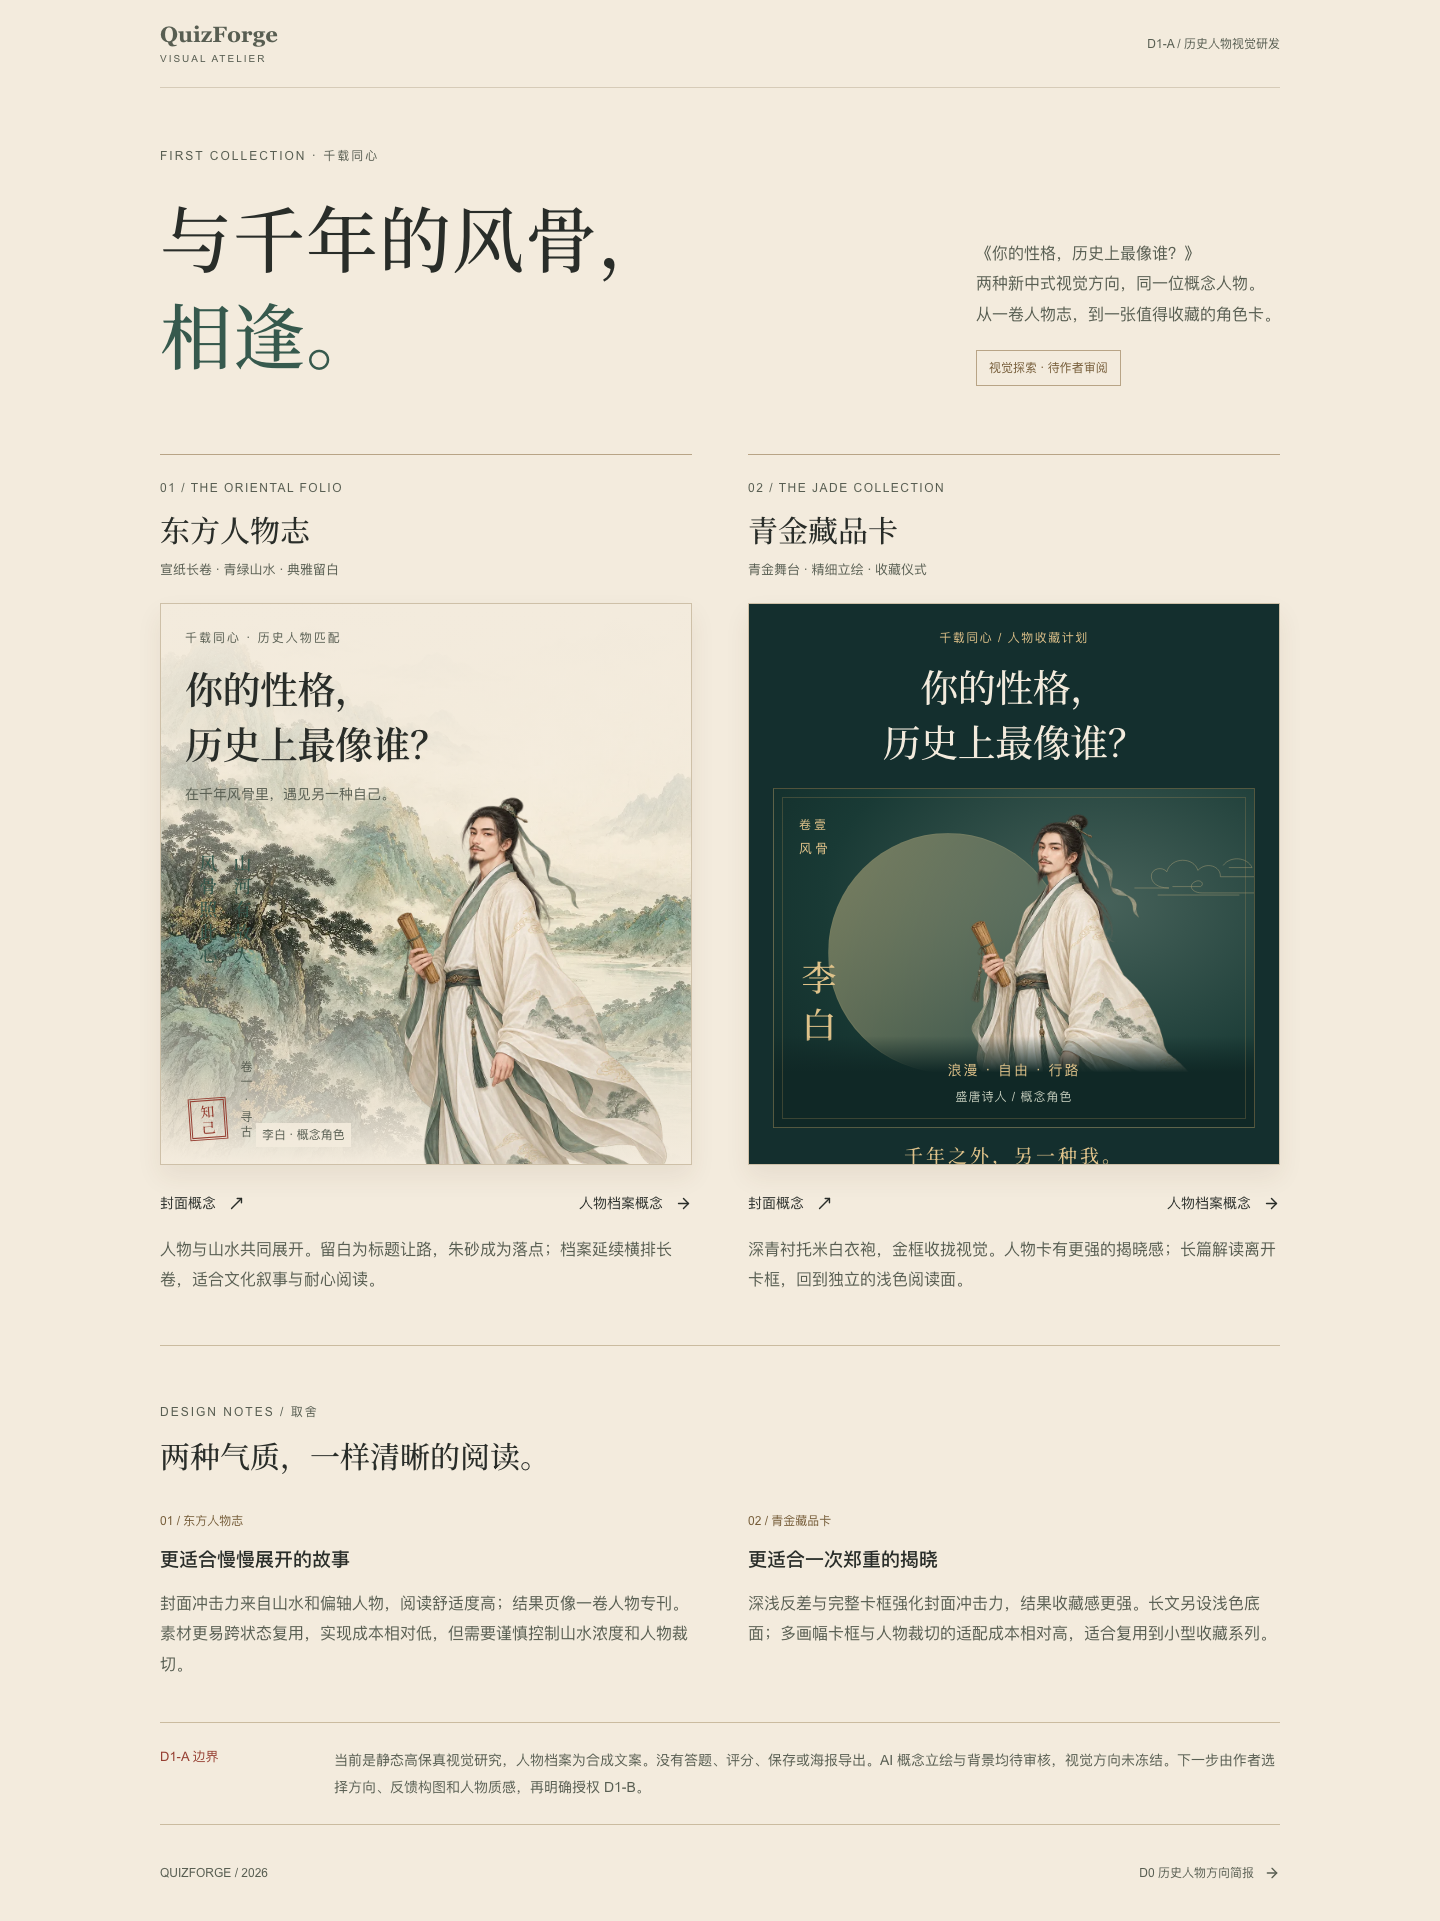
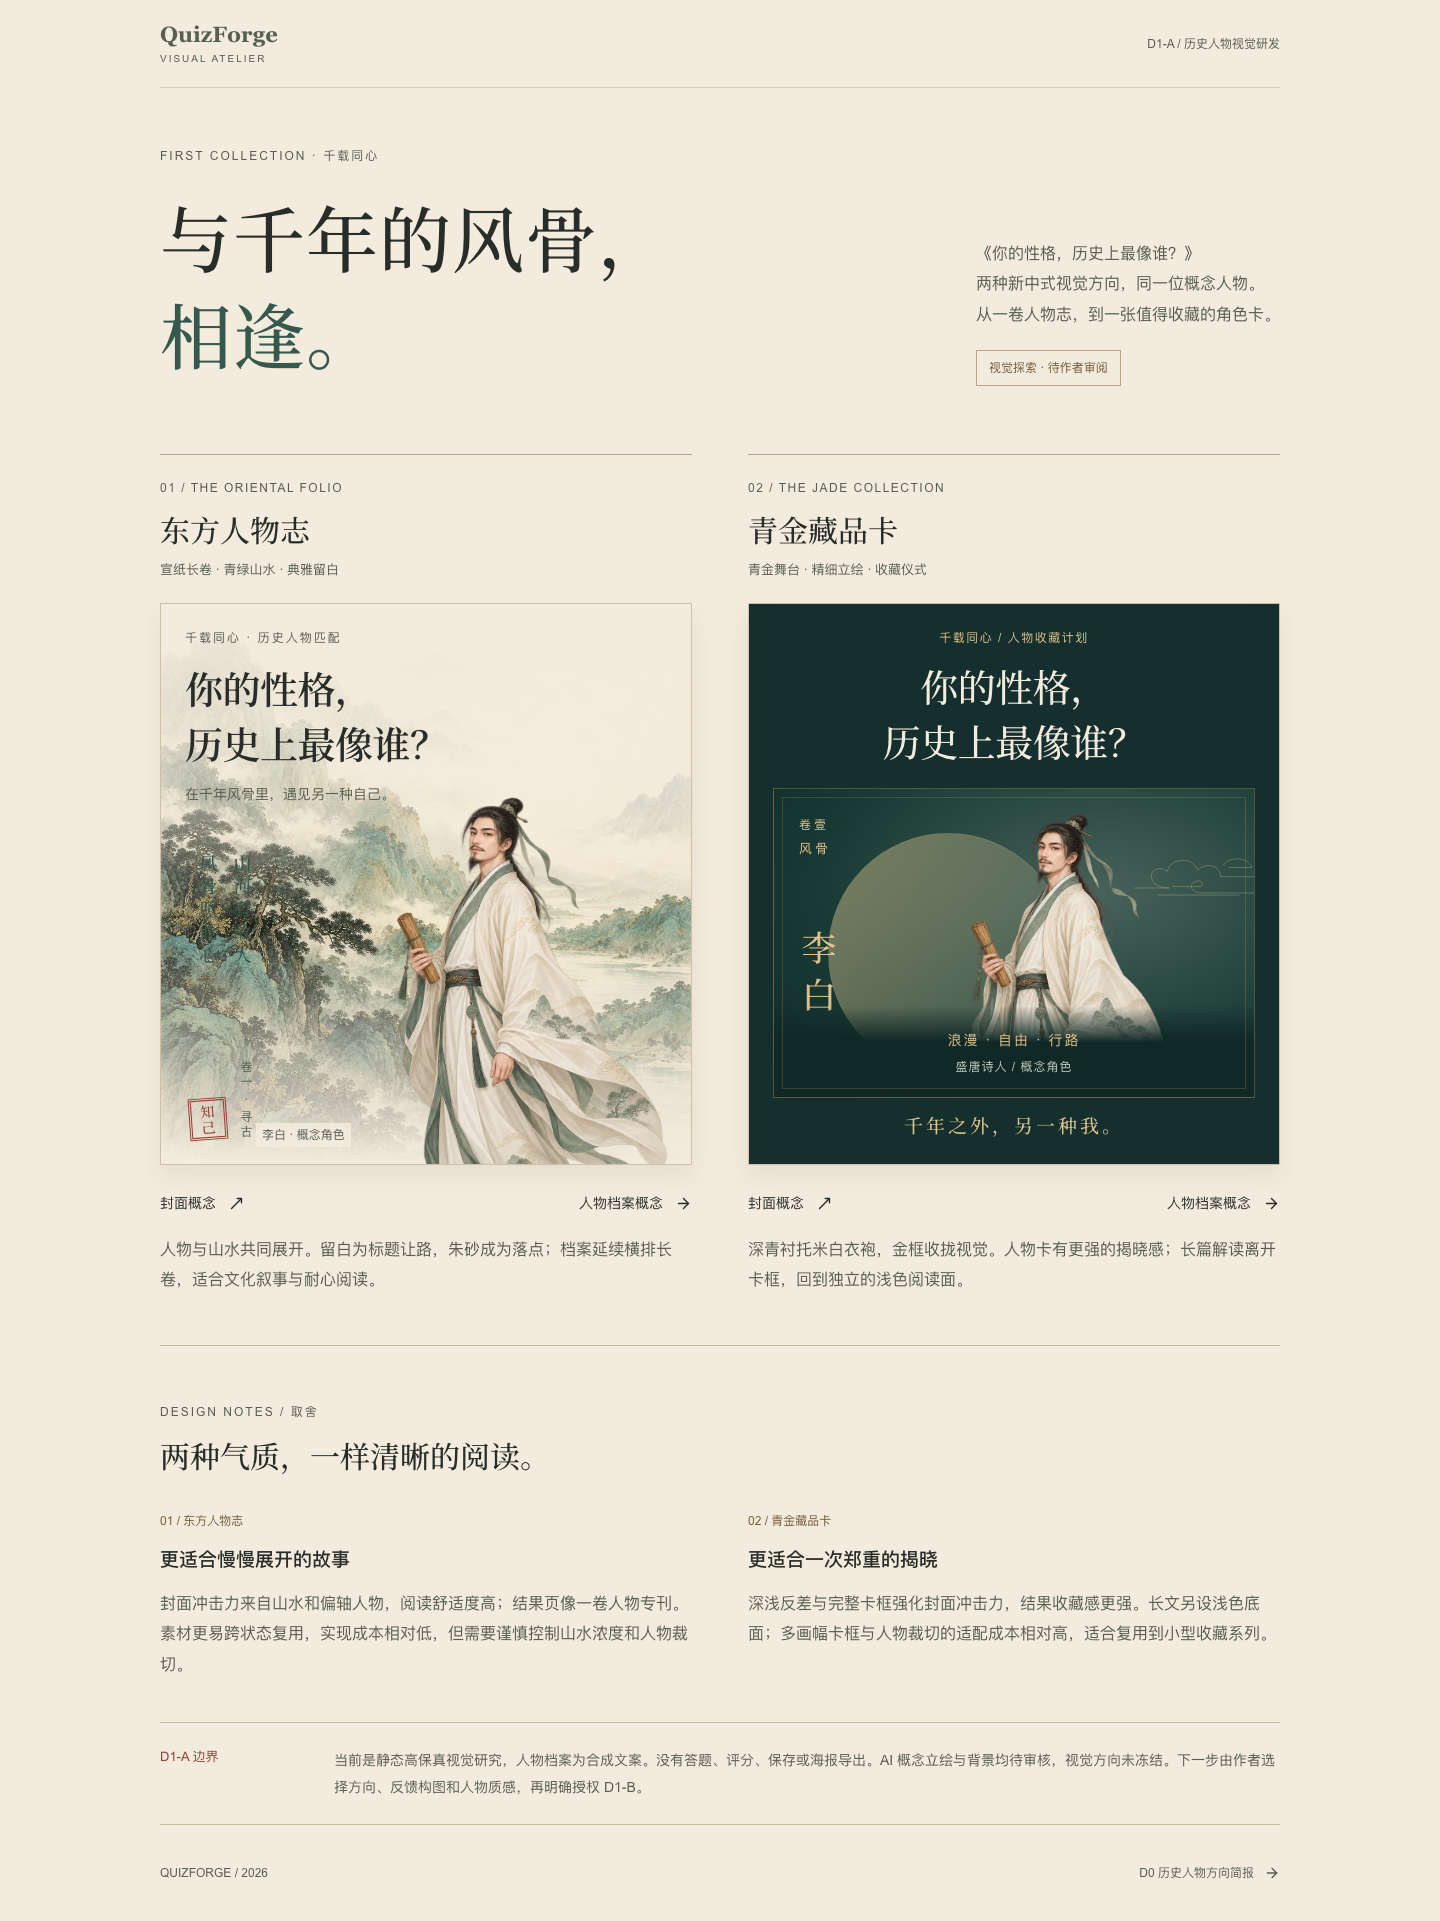
fix: preserve the collection caption in direction previews

Changed region(s): [[0.5938, 0.4997, 0.8125, 0.5934], [0.5625, 0.4685, 0.5938, 0.531]]

diff --git a/src/features/theme/historical/historical.module.css b/src/features/theme/historical/historical.module.css
@@ -869,7 +869,7 @@
     right: 8px;
   }
   .compact .collectionStage {
-    height: 340px;
+    height: 310px;
   }
   .compact .collectionStage .character {
     right: 18px;
@@ -941,7 +941,7 @@
     margin-inline: 16px;
   }
   .compact .collectionStage {
-    height: 340px;
+    height: 310px;
   }
   .compact .collectionStage .character {
     width: 270px;
@@ -997,7 +997,7 @@
     top: 195px;
   }
   .compact .collectionStage {
-    height: 340px;
+    height: 310px;
   }
   .compact .collectionStage .character {
     width: 250px;

diff --git a/docs/D1A_ACCEPTANCE.md b/docs/D1A_ACCEPTANCE.md
@@ -28,7 +28,8 @@
 2. A山水在标题附近偏浓，增加上方纸色遮罩；人物档案短句底面原来有硬边，改为全幅渐隐；桌面人物下摆透过短句底面的残影以人物容器裁切和静态渐隐收口。
 3. B390首屏入口被底部截断，缩短移动舞台至340px；桌面短句裁切，改为内容自适应最小高度。
 4. 缺背景显示破图符号，改为CSS背景，失败回到主题底色；缺人物保留尺寸并显示真实失败提示，不用Emoji或替代立绘。
-5. 小型内容索引提升到12px，装饰英文字标仍9–10px，不承担信息阅读。
+5. 比较页B缩略卡短句在浏览器中出现轻微裁切，缩略舞台单独收至310px；独立封面保持340px。
+6. 小型内容索引提升到12px，装饰英文字标仍9–10px，不承担信息阅读。
 
 研发结论：A/B视觉身份可区分，标题与人物各有安全区，长报告可自然滚动；两方向主入口在390首屏可见，其他内容按自然流滚动。A更适合文化长卷阅读，B更适合角色收藏揭晓；成本/适用性是设计估计，见ART_DIRECTION比较表。作者尚未选定方向。
 
